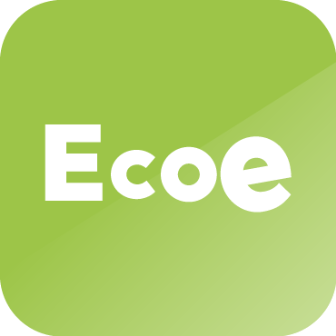
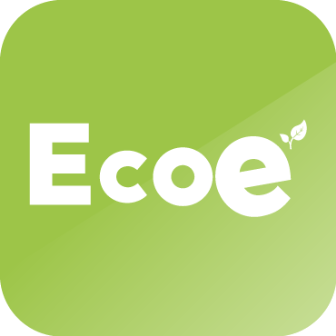
Imagens, fundo, SW

diff --git a/inicio.html b/inicio.html
@@ -7,6 +7,7 @@
     <meta name="viewport" content="width=device-width, initial-scale=1">
     <meta http-equiv="Content-Type" content="text/html; charset=utf-8" />
     <meta name="keywords" content="Classic Forms Responsive Widget,Login form widgets, Sign up Web forms , Login signup Responsive web form,Flat Pricing table,Flat Drop downs,Registration Forms,News letter Forms,Elements" />
+
     <script type="application/x-javascript">
         addEventListener("load", function() {
             setTimeout(hideURLbar, 0);
@@ -53,15 +54,15 @@
 
             <
             h2 > Temperatura agora no seu local. < /h2> <
-            br >
+        br >
             <
             h2 > Status das ruas próximas < /h2> <
-            img src = "images/pin.png"
+        img src = "images/pin.png"
         alt = "pin"
         class = "icon-gps" >
             <
             p class = "localizacao" > Pegar o GPS < /p> <
-            br >
+        br >
             <
             p > Av.Conde da boa vista < span class = "alert green" > < /span></p >
 
@@ -80,17 +81,17 @@
             input type = "text"
         name = "pesquisa" > < br >
             <
-            p class = "localizacao" > Para onde você vai ? < /p> <
-            /form>
+            p class = "localizacao" > Para onde você vai ? < /p> < /
+            form >
 
-        <
-        div class = "clear" > < /div> <
-            /div>
+            <
+            div class = "clear" > < /div> < /
+            div >
 
-        <!-- js-scripts -->			
-        <!-- js -->
-        <
-        script type = "text/javascript"
+            <!-- js-scripts -->			
+            <!-- js -->
+            <
+            script type = "text/javascript"
         src = "js/jquery-2.1.4.min.js" >
     </script>
     <!-- //js -->

diff --git a/index.html b/index.html
@@ -27,6 +27,23 @@ function hideURLbar(){ window.scrollTo(0,1); } </script> -->
 </head>
 
 <body>
+
+
+    <script src="https://www.gstatic.com/firebasejs/4.7.0/firebase.js"></script>
+    <script>
+        // Initialize Firebase
+        var config = {
+            apiKey: "AIzaSyA89vkukqcrz2D_cUxdZnw_pfqRVder4E0",
+            authDomain: "ecoe-fa4f2.firebaseapp.com",
+            databaseURL: "https://ecoe-fa4f2.firebaseio.com",
+            projectId: "ecoe-fa4f2",
+            storageBucket: "ecoe-fa4f2.appspot.com",
+            messagingSenderId: "767348743796"
+        };
+        firebase.initializeApp(config);
+    </script>
+
+
     <script>
         if ('serviceWorker' in navigator) {
             navigator.serviceWorker.register('/sw.js')
@@ -43,7 +60,7 @@ function hideURLbar(){ window.scrollTo(0,1); } </script> -->
     <div class="container">
 
         <div class="logo">
-            <center><img src="images/logo.png" alt="logo" class="img-responsive" width="100px"></center>
+            <center><img src="images/logoEcoe.png" alt="logo" class="img-responsive" width="100px"></center>
 
             <p class="topo-logo">Conscientizando Pessoas!</p>
             <p class="strong">Vamos juntos ajudar nosso planeta!</p>

diff --git a/sw.js b/sw.js
@@ -13,7 +13,11 @@ self.addEventListener('install', function(event) {
                 '/images/Bus.png',
                 '/images/Car.png',
                 '/images/IconEcoe.png',
-                '/images/logo.png',
+                '/images/logoEcoe.png',
+                '/images/logoEcoeB.png',
+                '/images/pin.png',
+                '/images/ShareCar.png',
+                '/images/termo.png',
                 '/manifest.json',
             ]);
         })

diff --git a/css/style.css b/css/style.css
@@ -224,6 +224,6 @@ select:focus {
 
 .strong {
     font-weight: bolder;
-	text-align: center;
-	font-size: 1.2em;
+    text-align: center;
+    font-size: 1.2em;
 }
